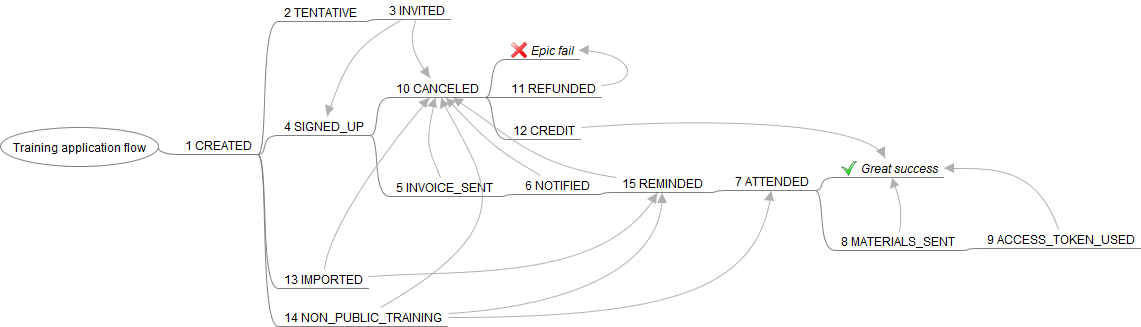
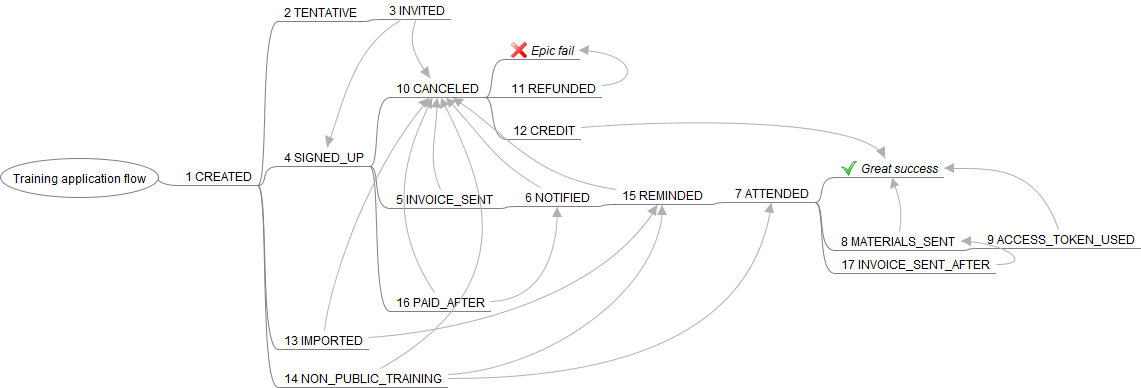
Enable new order status flow where the invoice is paid after the training

diff --git a/docs/training_application_flow.mm b/docs/training_application_flow.mm
@@ -5,12 +5,12 @@
 <font NAME="SansSerif" SIZE="12"/>
 <node CREATED="1355610776647" ID="ID_701738645" MODIFIED="1355615451224" TEXT="2 TENTATIVE" VGAP="87">
 <node CREATED="1355610786653" ID="ID_1511763687" MODIFIED="1355616632063" TEXT="3 INVITED">
-<arrowlink DESTINATION="ID_1175474475" ENDARROW="Default" ENDINCLINATION="-20;-27;" ID="Arrow_ID_1203943816" STARTARROW="None" STARTINCLINATION="-6;21;"/>
 <arrowlink DESTINATION="ID_1756582487" ENDARROW="Default" ENDINCLINATION="19;-59;" ID="Arrow_ID_1716710395" STARTARROW="None" STARTINCLINATION="-43;25;"/>
+<arrowlink DESTINATION="ID_1175474475" ENDARROW="Default" ENDINCLINATION="-20;-27;" ID="Arrow_ID_1203943816" STARTARROW="None" STARTINCLINATION="-6;21;"/>
 </node>
 </node>
 <node CREATED="1355610796532" ID="ID_1756582487" MODIFIED="1355617410792" TEXT="4 SIGNED_UP" VGAP="18">
-<node CREATED="1355610850487" ID="ID_1175474475" MODIFIED="1415815484564" TEXT="10 CANCELED" VGAP="18">
+<node CREATED="1355610850487" ID="ID_1175474475" MODIFIED="1456301994457" TEXT="10 CANCELED" VGAP="18">
 <node CREATED="1355612401716" ID="ID_438026523" MODIFIED="1355617431736" TEXT="Epic fail">
 <font ITALIC="true" NAME="SansSerif" SIZE="12"/>
 <icon BUILTIN="button_cancel"/>
@@ -22,36 +22,43 @@
 <arrowlink DESTINATION="ID_869199593" ENDARROW="Default" ENDINCLINATION="-18;-39;" ID="Arrow_ID_519739309" STARTARROW="None" STARTINCLINATION="111;-9;"/>
 </node>
 </node>
-<node CREATED="1355610800385" ID="ID_1032920025" MODIFIED="1387566347300" TEXT="5 INVOICE_SENT">
-<arrowlink DESTINATION="ID_1175474475" ENDARROW="Default" ENDINCLINATION="-11;46;" ID="Arrow_ID_1408376146" STARTARROW="None" STARTINCLINATION="-13;-31;"/>
-<node CREATED="1355610831825" ID="ID_1075044975" MODIFIED="1415815238325" TEXT="6 NOTIFIED">
+<node CREATED="1355610800385" ID="ID_1032920025" MODIFIED="1456301994457" TEXT="5 INVOICE_SENT">
+<arrowlink DESTINATION="ID_1175474475" ENDARROW="Default" ENDINCLINATION="-2;47;" ID="Arrow_ID_1408376146" STARTARROW="None" STARTINCLINATION="-13;-31;"/>
+<node CREATED="1355610831825" ID="ID_1075044975" MODIFIED="1456301867060" TEXT="6 NOTIFIED">
 <arrowlink DESTINATION="ID_1175474475" ENDARROW="Default" ENDINCLINATION="38;39;" ID="Arrow_ID_1310256158" STARTARROW="None" STARTINCLINATION="-50;-29;"/>
 <node CREATED="1415815238185" ID="ID_613030399" MODIFIED="1416785242357" TEXT="15 REMINDED">
 <arrowlink DESTINATION="ID_1175474475" ENDARROW="Default" ENDINCLINATION="55;34;" ID="Arrow_ID_258465881" STARTARROW="None" STARTINCLINATION="-89;-13;"/>
-<node CREATED="1355610836241" ID="ID_1743884845" MODIFIED="1416785269625" TEXT="7 ATTENDED">
+<node CREATED="1355610836241" ID="ID_1743884845" MODIFIED="1456301820197" TEXT="7 ATTENDED">
 <node CREATED="1355611320041" ID="ID_869199593" MODIFIED="1355617435824" TEXT="Great success">
 <font ITALIC="true" NAME="SansSerif" SIZE="12"/>
 <icon BUILTIN="button_ok"/>
 </node>
-<node CREATED="1355610842304" ID="ID_1274643579" MODIFIED="1355677686146" TEXT="8 MATERIALS_SENT" VSHIFT="48">
+<node CREATED="1355610842304" ID="ID_1274643579" MODIFIED="1456302338352" TEXT="8 MATERIALS_SENT" VSHIFT="48">
 <arrowlink DESTINATION="ID_869199593" ENDARROW="Default" ENDINCLINATION="8;24;" ID="Arrow_ID_852173153" STARTARROW="None" STARTINCLINATION="3;-21;"/>
 <node CREATED="1355610847007" ID="ID_337062274" MODIFIED="1355615605304" TEXT="9 ACCESS_TOKEN_USED">
 <arrowlink DESTINATION="ID_869199593" ENDARROW="Default" ENDINCLINATION="47;0;" ID="Arrow_ID_1780808541" STARTARROW="None" STARTINCLINATION="-23;-65;"/>
 </node>
 </node>
+<node CREATED="1456301890996" ID="ID_1942906737" MODIFIED="1456302338352" TEXT="17 INVOICE_SENT_AFTER">
+<arrowlink DESTINATION="ID_1274643579" ENDARROW="Default" ENDINCLINATION="41;0;" ID="Arrow_ID_1911332642" STARTARROW="None" STARTINCLINATION="41;0;"/>
 </node>
 </node>
 </node>
 </node>
 </node>
-<node CREATED="1355616634924" ID="ID_841067494" MODIFIED="1415815353227" TEXT="13 IMPORTED">
-<arrowlink COLOR="#b0b0b0" DESTINATION="ID_1175474475" ENDARROW="Default" ENDINCLINATION="-52;60;" ID="Arrow_ID_575919759" STARTARROW="None" STARTINCLINATION="4;-38;"/>
+<node CREATED="1456301769153" ID="ID_907559329" MODIFIED="1456301975098" TEXT="16 PAID_AFTER">
+<arrowlink DESTINATION="ID_1175474475" ENDARROW="Default" ENDINCLINATION="-18;36;" ID="Arrow_ID_1282435526" STARTARROW="None" STARTINCLINATION="-57;-84;"/>
+<arrowlink DESTINATION="ID_1075044975" ENDARROW="Default" ENDINCLINATION="0;30;" ID="Arrow_ID_1592289996" STARTARROW="None" STARTINCLINATION="60;-2;"/>
+</node>
+</node>
+<node CREATED="1355616634924" ID="ID_841067494" MODIFIED="1456301982508" TEXT="13 IMPORTED">
 <arrowlink DESTINATION="ID_613030399" ENDARROW="Default" ENDINCLINATION="-52;88;" ID="Arrow_ID_853160798" STARTARROW="None" STARTINCLINATION="103;-7;"/>
+<arrowlink COLOR="#b0b0b0" DESTINATION="ID_1175474475" ENDARROW="Default" ENDINCLINATION="-67;77;" ID="Arrow_ID_575919759" STARTARROW="None" STARTINCLINATION="4;-38;"/>
 </node>
 <node CREATED="1356477650225" ID="ID_894633253" MODIFIED="1416785269625" TEXT="14 NON_PUBLIC_TRAINING">
-<arrowlink DESTINATION="ID_1175474475" ENDARROW="Default" ENDINCLINATION="37;76;" ID="Arrow_ID_359661777" STARTARROW="None" STARTINCLINATION="153;-87;"/>
 <arrowlink DESTINATION="ID_613030399" ENDARROW="Default" ENDINCLINATION="0;82;" ID="Arrow_ID_96225950" STARTARROW="None" STARTINCLINATION="103;-6;"/>
 <arrowlink DESTINATION="ID_1743884845" ENDARROW="Default" ENDINCLINATION="-13;95;" ID="Arrow_ID_788685321" STARTARROW="None" STARTINCLINATION="232;0;"/>
+<arrowlink DESTINATION="ID_1175474475" ENDARROW="Default" ENDINCLINATION="37;76;" ID="Arrow_ID_359661777" STARTARROW="None" STARTINCLINATION="153;-87;"/>
 </node>
 </node>
 </node>

diff --git a/site/app/modules/Admin/presenters/EmailsPresenter.php b/site/app/modules/Admin/presenters/EmailsPresenter.php
@@ -62,6 +62,9 @@ class EmailsPresenter extends BasePresenter
 			if (in_array($application->status, $this->trainingStatuses->getParentStatuses(Training\Statuses::STATUS_INVOICE_SENT))) {
 				$application->nextStatus = Training\Statuses::STATUS_INVOICE_SENT;
 			}
+			if (in_array($application->status, $this->trainingStatuses->getParentStatuses(Training\Statuses::STATUS_INVOICE_SENT_AFTER))) {
+				$application->nextStatus = Training\Statuses::STATUS_INVOICE_SENT_AFTER;
+			}
 			if (in_array($application->status, $this->trainingStatuses->getParentStatuses(Training\Statuses::STATUS_REMINDED))) {
 				$application->nextStatus = Training\Statuses::STATUS_REMINDED;
 			}
@@ -88,19 +91,19 @@ class EmailsPresenter extends BasePresenter
 			}
 			$additional = trim($data->additional);
 
-			if (in_array($this->applications[$id]->status, $this->trainingStatuses->getParentStatuses(Training\Statuses::STATUS_INVITED))) {
+			if ($this->applications[$id]->nextStatus === Training\Statuses::STATUS_INVITED) {
 				$this->trainingMails->sendInvitation($this->applications[$id], $this->createTemplate(), $additional);
 				$this->trainingStatuses->updateStatus($id, Training\Statuses::STATUS_INVITED);
 				$sent++;
 			}
 
-			if (in_array($this->applications[$id]->status, $this->trainingStatuses->getParentStatuses(Training\Statuses::STATUS_MATERIALS_SENT))) {
+			if ($this->applications[$id]->nextStatus === Training\Statuses::STATUS_MATERIALS_SENT) {
 				$this->trainingMails->sendMaterials($this->applications[$id], $this->createTemplate(), $additional);
 				$this->trainingStatuses->updateStatus($id, Training\Statuses::STATUS_MATERIALS_SENT);
 				$sent++;
 			}
 
-			if (in_array($this->applications[$id]->status, $this->trainingStatuses->getParentStatuses(Training\Statuses::STATUS_INVOICE_SENT))) {
+			if (in_array($this->applications[$id]->nextStatus, [Training\Statuses::STATUS_INVOICE_SENT, Training\Statuses::STATUS_INVOICE_SENT_AFTER])) {
 				if ($data->invoice->isOk()) {
 					$this->trainingApplications->updateApplicationInvoiceData($id, $data->invoiceId);
 					$this->applications[$id]->invoiceId = $data->invoiceId;
@@ -108,12 +111,12 @@ class EmailsPresenter extends BasePresenter
 					$invoice = array($data->invoice->getName() => $data->invoice->getTemporaryFile());
 					$this->trainingMails->sendInvoice($this->applications[$id], $this->createTemplate(), $invoice, $additional);
 
-					$this->trainingStatuses->updateStatus($id, Training\Statuses::STATUS_INVOICE_SENT);
+					$this->trainingStatuses->updateStatus($id, $this->applications[$id]->nextStatus);
 					$sent++;
 				}
 			}
 
-			if (in_array($this->applications[$id]->status, $this->trainingStatuses->getParentStatuses(Training\Statuses::STATUS_REMINDED))) {
+			if ($this->applications[$id]->nextStatus === Training\Statuses::STATUS_REMINDED) {
 				$this->trainingMails->sendReminder($this->applications[$id], $this->createTemplate(), $additional);
 				$this->trainingStatuses->updateStatus($id, Training\Statuses::STATUS_REMINDED);
 				$sent++;

diff --git a/site/app/models/Form/TrainingMailsOutbox.php b/site/app/models/Form/TrainingMailsOutbox.php
@@ -23,12 +23,13 @@ class TrainingMailsOutbox extends \Nette\Application\UI\Form
 			$applicationIdsContainer = $applicationsContainer->addContainer($application->id);
 			$checked = true;
 			$disabled = false;
-			switch ($application->status) {
-				case Training\Statuses::STATUS_ATTENDED:
+			switch ($application->nextStatus) {
+				case Training\Statuses::STATUS_MATERIALS_SENT:
 					$checked = (bool)$application->files;
 					$disabled = !$checked;
 					break;
-				case Training\Statuses::STATUS_SIGNED_UP:
+				case Training\Statuses::STATUS_INVOICE_SENT:
+				case Training\Statuses::STATUS_INVOICE_SENT_AFTER:
 					$checked = ($application->price && $application->vatRate && $application->priceVat);
 					$disabled = !$checked;
 					break;
@@ -41,8 +42,9 @@ class TrainingMailsOutbox extends \Nette\Application\UI\Form
 				->setAttribute('placeholder', 'Dodatečný text')
 				->setAttribute('cols', 80)
 				->setAttribute('rows', 3);
-			switch ($application->status) {
-				case Training\Statuses::STATUS_SIGNED_UP:
+			switch ($application->nextStatus) {
+				case Training\Statuses::STATUS_INVOICE_SENT:
+				case Training\Statuses::STATUS_INVOICE_SENT_AFTER:
 					$applicationIdsContainer->addText('invoiceId')
 						->setType('number')
 						->setAttribute('placeholder', 'Faktura č.')

diff --git a/site/app/models/Training/Mails.php b/site/app/models/Training/Mails.php
@@ -120,6 +120,12 @@ class Mails
 			}
 		}
 
+		foreach ($this->trainingStatuses->getParentStatuses(Statuses::STATUS_INVOICE_SENT_AFTER) as $status) {
+			foreach ($this->trainingApplications->getByStatus($status) as $application) {
+				$applications[] = $application;
+			}
+		}
+
 		foreach ($this->trainingStatuses->getParentStatuses(Statuses::STATUS_REMINDED) as $status) {
 			foreach ($this->trainingApplications->getByStatus($status) as $application) {
 				if ($application->trainingStart->diff(new \DateTime('now'))->format('%d') <= self::REMINDER_DAYS) {
@@ -164,7 +170,7 @@ class Mails
 	{
 		\Tracy\Debugger::log("Sending invoice email to {$application->name}, application id: {$application->id}, training: {$application->trainingAction}");
 
-		$template->setFile($this->templatesDir . 'admin/invoice.latte');
+		$template->setFile($this->templatesDir . ($application->nextStatus === Statuses::STATUS_INVOICE_SENT_AFTER ? 'admin/invoiceAfter.latte' : 'admin/invoice.latte'));
 		$template->application = $application;
 		$template->additional = $additional;
 		$subject = 'Potvrzení registrace na školení ' . $application->trainingName . ' a faktura';

diff --git a/site/app/models/Training/Statuses.php b/site/app/models/Training/Statuses.php
@@ -23,6 +23,8 @@ class Statuses
 	const STATUS_IMPORTED            = 'IMPORTED';             // 13
 	const STATUS_NON_PUBLIC_TRAINING = 'NON_PUBLIC_TRAINING';  // 14
 	const STATUS_REMINDED            = 'REMINDED';             // 15
+	const STATUS_PAID_AFTER          = 'PAID_AFTER';           // 16
+	const STATUS_INVOICE_SENT_AFTER  = 'INVOICE_SENT_AFTER';   // 17
 
 	/** @var \Nette\Database\Context */
 	protected $database;
